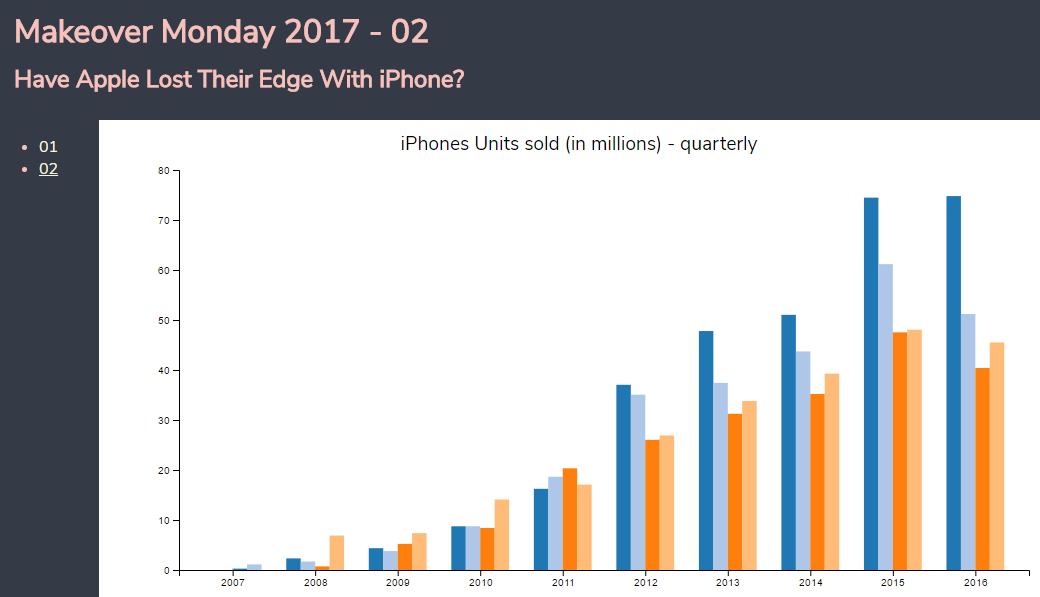
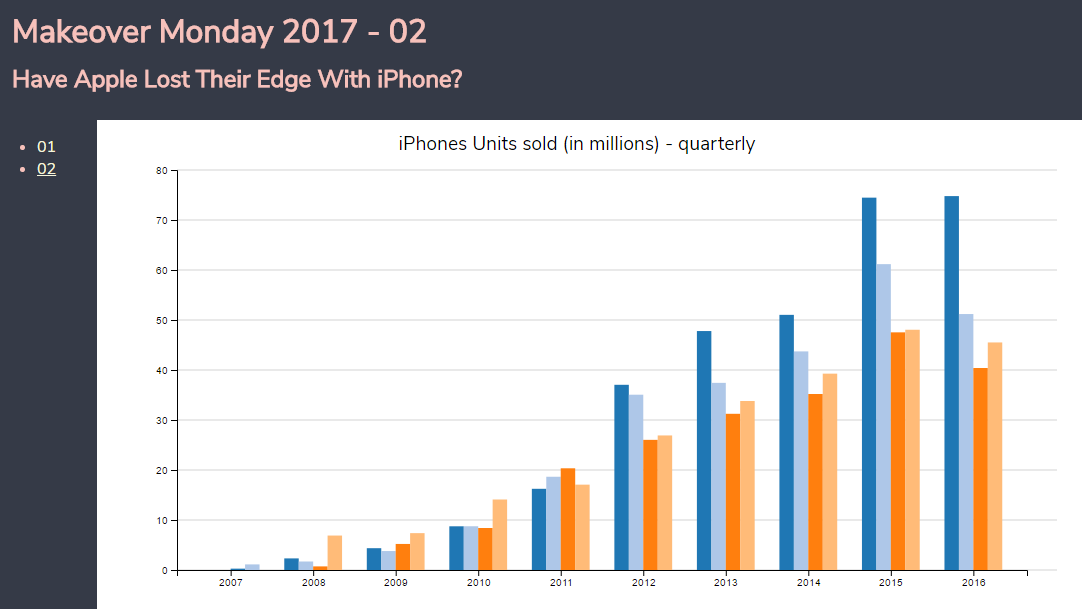
MOM02 complete with horizontal lines

diff --git a/src/components/challenges/02/component.ts b/src/components/challenges/02/component.ts
@@ -30,6 +30,12 @@ function controller(csvService: ICsvService) {
     let plotHeight = p.height();
     let plotWidth = p.width();
 
+
+    let linesGroup = plotGroup.append('g')
+        .classed('lines', true);
+
+    let series = plotGroup.append('g')
+        .classed('series-list', true);
     let t = new title(d3.select('svg'), width, height)
         .text('iPhones Units sold (in millions) - quarterly');
     let yAxis = new LeftLinearAxis(plotGroup, plotWidth, plotHeight);
@@ -46,12 +52,29 @@ function controller(csvService: ICsvService) {
     function update(data: Array<any>) {
         yAxis.domain(d3.extent(data, d => parseFloat(d['Units sold (in millions)'])));
         xAxis.domain(data.map(d => d.Year));
+        let ticks = yAxis.ticks();
+        var linesBound = linesGroup.selectAll('.line')
+            .data(ticks);
+        linesBound
+            .exit()
+            .remove();
+        let linesEnter = linesBound
+            .enter()
+            .append('g')
+            .classed('line', true)
+            .attr('transform', d => `translate(${0},${yAxis.scale(d)})`);
+        linesEnter.append('line')
+            .attr('x1', 0)
+            .attr('x2', plotWidth)
+            .attr('y1', 0)
+            .attr('y1', 0)
+            .style('stroke', 'lightgray');
         quarterScale.range([0, xAxis.bandWidth()]);
         let byYear = d3.nest<any>()
             .key(d => d.Year)
             .entries(data);
 
-        var dataBound = plotGroup.selectAll('.year')
+        var dataBound = series.selectAll('.year')
             .data(byYear);
         dataBound
             .exit()

diff --git a/src/charting/LeftLinearAxis.ts b/src/charting/LeftLinearAxis.ts
@@ -39,4 +39,8 @@ export class LeftLinearAxis<T> {
     scale(value: number): number {
         return this._scale(value);
     }
+
+    ticks(): number[]{
+        return this._scale.ticks();
+    }
 }
